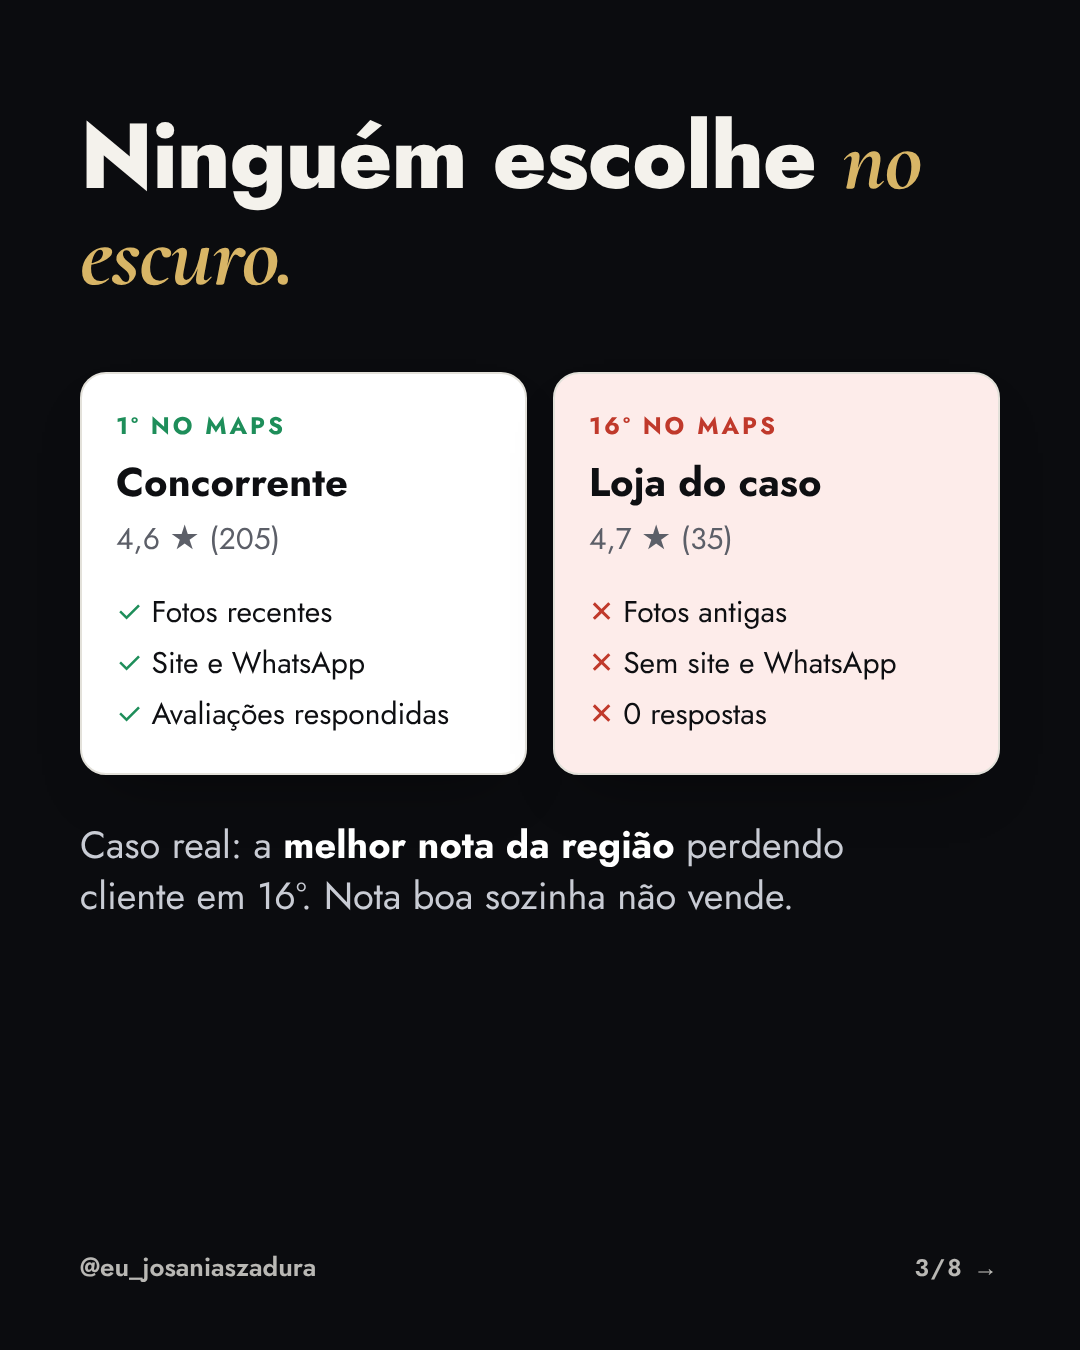
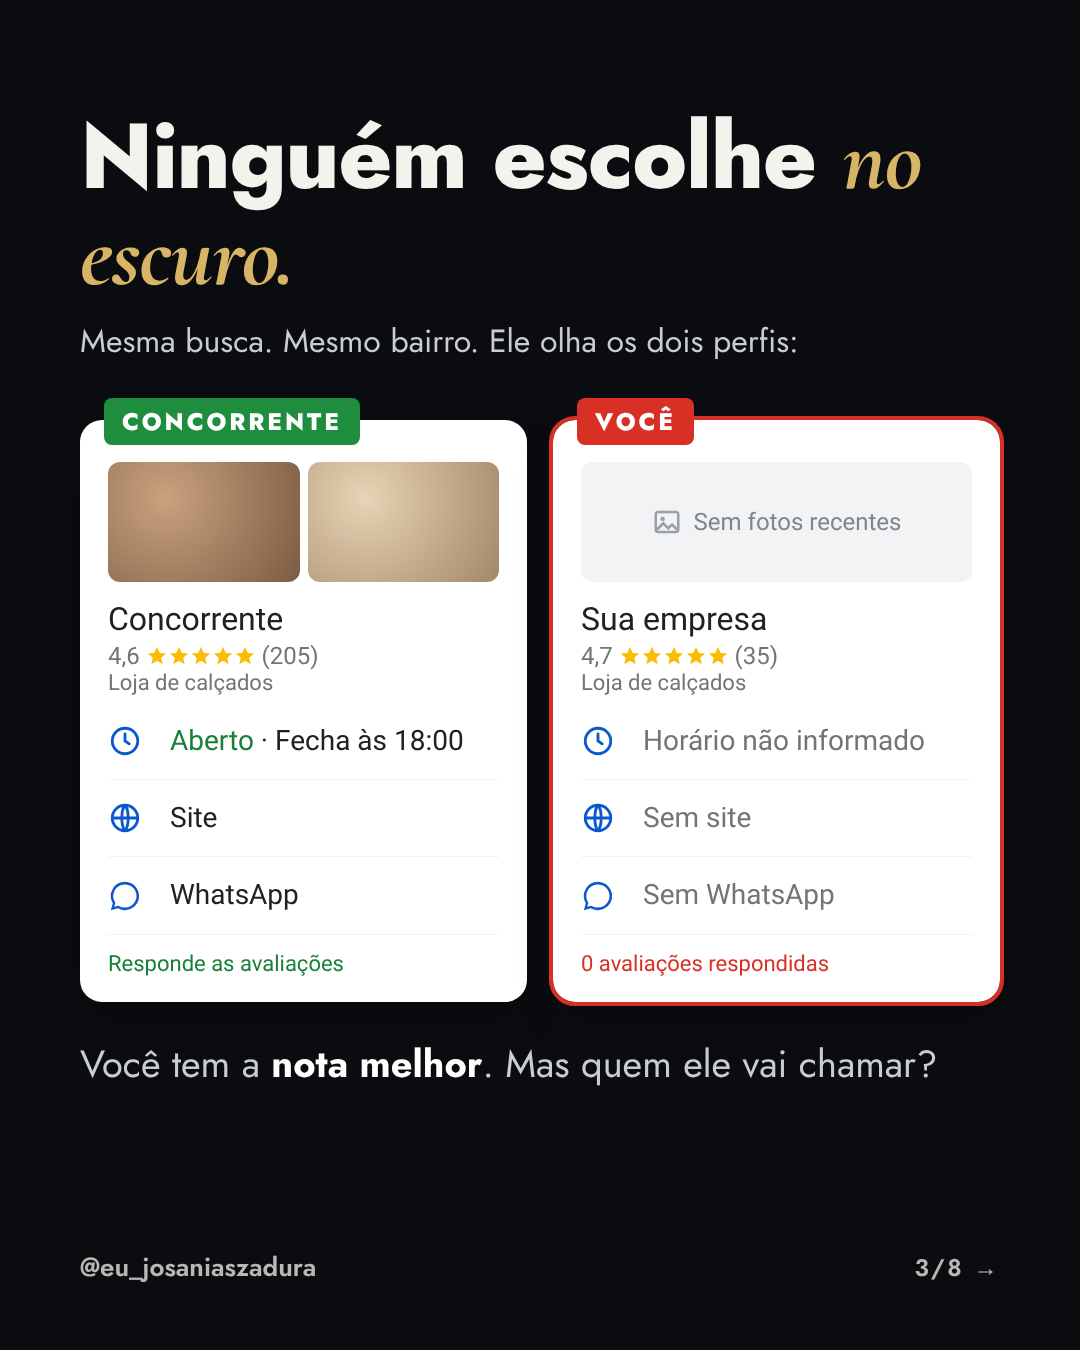
Carrossel RAIO-X: prints realistas do Google (fictícios) e card Você x Concorrente
Claude-Session: https://claude.ai/code/session_01GSPDeNJt9dBjJ4huVqgAZy

Changed region(s): [[0.0611, 0.2489, 0.9472, 0.7467], [0.0611, 0.7778, 0.8556, 0.8089]]

diff --git a/anuncios/carrossel-raiox/fonte/gui.py b/anuncios/carrossel-raiox/fonte/gui.py
@@ -1,0 +1,71 @@
+# Componentes com aparência de Google/Maps (dados fictícios)
+import random
+FONT='Roboto,Arial,sans-serif'
+TEAL='#0B57D0'
+def stars(n=5,size=26,color='#FBBC04',empty='#DADCE0',val=None):
+    out=''
+    for i in range(5):
+        fill=color if (val is None or i<round(val)) else empty
+        out+=f'<svg width="{size}" height="{size}" viewBox="0 0 24 24" style="vertical-align:-3px"><path fill="{fill}" d="M12 17.3l6.2 3.7-1.6-7 5.4-4.7-7.1-.6L12 2 9.1 8.7 2 9.3l5.4 4.7-1.6 7z"/></svg>'
+    return out
+def icon(name,color='#5F6368',size=34):
+    p={'pin':'<path fill="none" stroke="C" stroke-width="2" d="M12 21s-7-6.5-7-11.5A7 7 0 0 1 19 9.5C19 14.5 12 21 12 21z"/><circle cx="12" cy="9.5" r="2.5" fill="none" stroke="C" stroke-width="2"/>',
+       'clock':'<circle cx="12" cy="12" r="9" fill="none" stroke="C" stroke-width="2"/><path d="M12 7v5l3 2" fill="none" stroke="C" stroke-width="2" stroke-linecap="round"/>',
+       'globe':'<circle cx="12" cy="12" r="9" fill="none" stroke="C" stroke-width="2"/><path d="M3 12h18M12 3c3 3.5 3 14.5 0 18M12 3c-3 3.5-3 14.5 0 18" fill="none" stroke="C" stroke-width="2"/>',
+       'phone':'<path fill="none" stroke="C" stroke-width="2" d="M5 4h4l2 5-2.5 1.5a11 11 0 0 0 5 5L15 13l5 2v4a2 2 0 0 1-2 2A16 16 0 0 1 3 6a2 2 0 0 1 2-2"/>',
+       'dir':'<path fill="C" d="M21.7 11.3l-9-9a1 1 0 0 0-1.4 0l-9 9a1 1 0 0 0 0 1.4l9 9a1 1 0 0 0 1.4 0l9-9a1 1 0 0 0 0-1.4zM14 14.5V12h-4v3H8v-4a1 1 0 0 1 1-1h5V7.5l3.5 3.5z"/>',
+       'save':'<path fill="none" stroke="C" stroke-width="2" d="M6 3h12v18l-6-4-6 4z"/>',
+       'near':'<circle cx="12" cy="12" r="3" fill="none" stroke="C" stroke-width="2"/><circle cx="12" cy="12" r="8" fill="none" stroke="C" stroke-width="2"/>',
+       'share':'<circle cx="18" cy="5" r="2.5" fill="none" stroke="C" stroke-width="2"/><circle cx="6" cy="12" r="2.5" fill="none" stroke="C" stroke-width="2"/><circle cx="18" cy="19" r="2.5" fill="none" stroke="C" stroke-width="2"/><path d="M8.2 10.8l7.6-4.6M8.2 13.2l7.6 4.6" stroke="C" stroke-width="2"/>',
+       'wa':'<path fill="C" d="M12 2a10 10 0 0 0-8.6 15.1L2 22l5-1.3A10 10 0 1 0 12 2zm0 18.2c-1.5 0-3-.4-4.3-1.2l-.3-.2-3 .8.8-2.9-.2-.3A8.2 8.2 0 1 1 12 20.2z"/>',
+       'search':'<circle cx="10.5" cy="10.5" r="6.5" fill="none" stroke="C" stroke-width="2.2"/><path d="M15.5 15.5L21 21" stroke="C" stroke-width="2.2" stroke-linecap="round"/>',
+       'x':'<path d="M6 6l12 12M18 6L6 18" stroke="C" stroke-width="2" stroke-linecap="round"/>',
+       'mic':'<rect x="9" y="3" width="6" height="11" rx="3" fill="C"/><path d="M5 11a7 7 0 0 0 14 0M12 18v3" fill="none" stroke="C" stroke-width="2"/>',
+       'cam':'<rect x="3" y="7" width="18" height="13" rx="3" fill="none" stroke="C" stroke-width="2"/><circle cx="12" cy="13.5" r="3.5" fill="none" stroke="C" stroke-width="2"/><path d="M8 7l1.5-3h5L16 7" fill="none" stroke="C" stroke-width="2"/>',
+       'photo':'<rect x="3" y="4" width="18" height="16" rx="2" fill="none" stroke="C" stroke-width="2"/><circle cx="8.5" cy="9.5" r="1.8" fill="C"/><path d="M4 18l5-5 4 4 3-3 4 4" fill="none" stroke="C" stroke-width="2"/>'}[name].replace('C',color)
+    return f'<svg width="{size}" height="{size}" viewBox="0 0 24 24" style="flex:none">{p}</svg>'
+def searchbar(q,w=920):
+    return f'''<div style="width:{w}px;background:#fff;border-radius:999px;box-shadow:0 2px 10px rgba(32,33,36,.28);display:flex;align-items:center;gap:22px;padding:22px 32px;font-family:{FONT}">
+<span style="font-family:Arial,sans-serif;font-size:36px;font-weight:500;color:#5F6368;letter-spacing:-.5px">Google</span>
+<span style="flex:1;font-size:30px;color:#202124">{q}</span>{icon('x','#70757A',30)}<span style="width:2px;height:34px;background:#DADCE0"></span>{icon('mic','#4285F4',32)}{icon('cam','#5F6368',32)}</div>'''
+def gpin(x,y,label='',color='#EA4335',big=False):
+    s=1.5 if big else 1
+    return f'''<g transform="translate({x},{y}) scale({s})"><path d="M0 0c-9-11-14-17-14-24a14 14 0 0 1 28 0c0 7-5 13-14 24z" fill="{color}" stroke="#fff" stroke-width="1.5"/><circle cy="-24" r="5" fill="#fff" opacity=".9"/></g>'''+(f'<text x="{x+ (24 if big else 18)}" y="{y-22}" font-family="Roboto,Arial" font-size="{24 if big else 19}" font-weight="{700 if big else 500}" fill="{color}" stroke="#fff" stroke-width="5" paint-order="stroke">{label}</text>' if label else '')
+def mapsvg(w,h,pins,seed=7):
+    rnd=random.Random(seed)
+    g=[f'<rect width="{w}" height="{h}" fill="#F3F1EC"/>']
+    # parque e rio
+    g.append(f'<path d="M{w*.05} {h*.62} q{w*.12} -{h*.1} {w*.24} -{h*.02} t{w*.2} {h*.05} l0 {h*.16} q-{w*.18} {h*.06} -{w*.44} -{h*.02}z" fill="#C8E6C9"/>')
+    g.append(f'<path d="M-10 {h*.86} C {w*.25} {h*.70}, {w*.45} {h*.98}, {w*.7} {h*.8} S {w*1.0} {h*.66}, {w+10} {h*.72}" fill="none" stroke="#9FCBF5" stroke-width="34"/>')
+    # quarteirões / ruas
+    for i in range(-2,14):
+        x=i*w/11+rnd.uniform(-10,10)
+        g.append(f'<line x1="{x}" y1="-10" x2="{x+w*.08}" y2="{h+10}" stroke="#fff" stroke-width="{rnd.choice([7,7,9])}"/>')
+    for j in range(-1,10):
+        y=j*h/8+rnd.uniform(-8,8)
+        g.append(f'<line x1="-10" y1="{y}" x2="{w+10}" y2="{y-h*.06}" stroke="#fff" stroke-width="{rnd.choice([7,7,9])}"/>')
+    g.append(f'<line x1="-10" y1="{h*.3}" x2="{w+10}" y2="{h*.22}" stroke="#FFE7A3" stroke-width="16"/><line x1="-10" y1="{h*.3}" x2="{w+10}" y2="{h*.22}" stroke="#F4D27A" stroke-width="2" opacity=".6"/>')
+    g.append(f'<line x1="{w*.62}" y1="-10" x2="{w*.7}" y2="{h+10}" stroke="#FFE7A3" stroke-width="14"/>')
+    for (tx,ty,t) in [(w*.08,h*.27,'Av. Brasil'),(w*.66,h*.55,'R. das Palmeiras'),(w*.3,h*.12,'R. Tiradentes'),(w*.12,h*.7,'Parque Municipal')]:
+        g.append(f'<text x="{tx}" y="{ty}" font-family="Roboto,Arial" font-size="17" fill="#7A7A7A">{t}</text>')
+    for p in pins: g.append(gpin(*p))
+    return f'<svg width="{w}" height="{h}" viewBox="0 0 {w} {h}" style="display:block">{"".join(g)}</svg>'
+def photos(n=4,w=200,h=130,empty=False):
+    if empty:
+        return f'<div style="display:flex;align-items:center;justify-content:center;gap:12px;height:{h}px;background:#F1F3F4;border-radius:12px;color:#80868B;font-size:24px;font-family:{FONT}">{icon("photo","#9AA0A6",30)}Sem fotos recentes</div>'
+    pal=[('#C9A27E','#7B5B43'),('#E7D3B5','#A4876A'),('#B7C9D3','#5D7887'),('#D9B9A4','#8C6450')]
+    t=''.join(f'<div style="flex:1;height:{h}px;border-radius:12px;background:radial-gradient(circle at 30% 30%,{a},{b})"></div>' for a,b in pal[:n])
+    return f'<div style="display:flex;gap:8px">{t}</div>'
+def actions(size=72):
+    items=[('dir','Rotas',True),('save','Salvar',False),('near','Próximo',False),('share','Compartilhar',False)]
+    out=''
+    for ic,lab,main in items:
+        bg=TEAL if main else '#D3E3FD'
+        col='#fff' if main else TEAL
+        out+=f'<div style="display:flex;flex-direction:column;align-items:center;gap:10px;font-size:22px;color:{TEAL};font-weight:500"><div style="width:{size}px;height:{size}px;border-radius:50%;background:{bg};display:grid;place-items:center">{icon(ic,col,34)}</div>{lab}</div>'
+    return f'<div style="display:flex;justify-content:space-between;padding:22px 6px">{out}</div>'
+def tabs(active=0):
+    t=['Visão geral','Avaliações','Sobre']
+    return '<div style="display:flex;gap:56px;border-bottom:2px solid #E8EAED;font-size:26px;font-weight:500">'+''.join(f'<div style="padding:16px 4px;color:{TEAL if i==active else "#5F6368"};border-bottom:{"4px solid "+TEAL if i==active else "4px solid transparent"};margin-bottom:-2px">{x}</div>' for i,x in enumerate(t))+'</div>'
+def inforow(ic,txt,sub='',color='#202124'):
+    return f'<div style="display:flex;gap:28px;align-items:center;padding:20px 0;border-bottom:1px solid #F1F3F4">{icon(ic,TEAL,34)}<div style="font-size:28px;color:{color};line-height:1.3">{txt}{("<div style=&quot;font-size:22px;color:#70757A&quot;>"+sub+"</div>") if sub else ""}</div></div>'.replace('&quot;','"')

diff --git a/anuncios/carrossel-raiox/fonte/cards_reais.py b/anuncios/carrossel-raiox/fonte/cards_reais.py
@@ -1,0 +1,74 @@
+from gui import *
+CARD='background:#fff;border-radius:22px;box-shadow:0 18px 50px -18px rgba(0,0,0,.45);font-family:Roboto,Arial,sans-serif;color:#202124'
+def S2(foot):
+    pins=[(150,210,'Concorrente A'),(420,120,'Concorrente B'),(700,250,'Concorrente C'),(300,380,''),(560,430,''),(820,140,''),(200,520,'')]
+    return f'''<div class="c light">
+<h1>Neste minuto, alguém digitou <span class="u">o que você vende.</span></h1>
+<div style="margin-top:56px;position:relative">
+<div style="border-radius:22px;overflow:hidden;box-shadow:0 18px 50px -18px rgba(0,0,0,.45)">{mapsvg(920,600,pins)}</div>
+<div style="position:absolute;left:0;right:0;top:-36px">{searchbar("seu serviço perto de mim",920)}</div>
+</div>
+<p class="cap">O Google abriu o mapa com as opções. <b>A sua empresa estava lá?</b></p>
+{foot(2)}</div>'''
+def mini(nome,nota,qtd,good):
+    tag=('CONCORRENTE','#1E8E3E') if good else ('VOCÊ','#D93025')
+    rows=(inforow('clock','<span style="color:#188038">Aberto</span> · Fecha às 18:00')+inforow('globe','Site')+inforow('wa','WhatsApp')) if good else \
+         (inforow('clock','<span style="color:#70757A">Horário não informado</span>')+inforow('globe','<span style="color:#70757A">Sem site</span>')+inforow('wa','<span style="color:#70757A">Sem WhatsApp</span>'))
+    return f'''<div style="{CARD};padding:28px 28px 10px;position:relative;{'' if good else 'outline:4px solid #D93025;'}">
+<div style="position:absolute;top:-22px;left:24px;background:{tag[1]};color:#fff;font-family:Jost;font-weight:800;font-size:24px;letter-spacing:.12em;padding:6px 18px;border-radius:8px">{tag[0]}</div>
+<div style="margin-top:14px">{photos(2,0,120,empty=not good)}</div>
+<div style="font-size:32px;margin-top:18px">{nome}</div>
+<div style="font-size:24px;color:#70757A;margin-top:4px">{nota} {stars(size=22,val=float(nota.replace(",",".")))} ({qtd})</div>
+<div style="font-size:22px;color:#70757A">Loja de calçados</div>
+<div style="margin-top:8px">{rows}</div>
+<div style="font-size:22px;padding:16px 0;color:{'#188038' if good else '#D93025'}">{'Responde as avaliações' if good else '0 avaliações respondidas'}</div>
+</div>'''
+def S3(foot):
+    return f'''<div class="c night">
+<h1>Ninguém escolhe <span class="it">no escuro.</span></h1>
+<p style="font-size:32px;color:#C9CCD4;margin-top:16px">Mesma busca. Mesmo bairro. Ele olha os dois perfis:</p>
+<div style="display:grid;grid-template-columns:1fr 1fr;gap:26px;margin-top:56px">{mini("Concorrente","4,6","205",True)}{mini("Sua empresa","4,7","35",False)}</div>
+<p class="cap" style="color:#C9CCD4;margin-top:36px">Você tem a <b style="color:#fff">nota melhor</b>. Mas quem ele vai chamar?</p>
+{foot(3)}</div>'''
+def S4(foot):
+    return f'''<div class="c light">
+<h1>O Google não adivinha. <span class="it">Ele lê o seu perfil.</span></h1>
+<div style="{CARD};margin-top:56px;padding:34px 40px 10px">
+<div style="font-size:44px">Sua Empresa</div>
+<div style="font-size:28px;color:#70757A;margin-top:8px">4,8 {stars(size=26)} (120)</div>
+<div style="display:inline-block;font-size:28px;color:#70757A;margin-top:6px;border-bottom:6px solid #D8B566;padding-bottom:2px">Categoria do seu negócio · $$</div>
+<div style="margin-top:20px">{tabs(0)}</div>
+{actions()}
+<div style="font-size:24px;color:#70757A;padding:6px 0 4px">Serviços</div>
+<div style="display:flex;flex-wrap:wrap;gap:12px;padding:8px 0 24px">{''.join(f'<span style="font-size:24px;border:1px solid #DADCE0;border-radius:10px;padding:8px 18px">{s}</span>' for s in ['Serviço principal','Serviço 2','Serviço 3','Orçamento'])}</div>
+</div>
+<div style="position:absolute;right:70px;top:582px;font-family:'Cormorant Garamond';font-style:italic;font-weight:700;font-size:44px;color:#A87C1E;transform:rotate(-4deg)">← categoria certa</div>
+<p class="cap">Categoria errada ou serviço faltando? O Google <b>entrega o seu cliente pro concorrente.</b></p>
+{foot(4)}</div>'''
+def S5(foot):
+    return f'''<div class="c gold">
+<h1>Cliente pronto pra comprar <span class="it">não espera.</span></h1>
+<div style="{CARD};margin-top:56px;padding:14px 40px">
+{inforow('pin','Av. Brasil, 1234 · Centro','Sua cidade - UF')}
+{inforow('clock','<span style="color:#188038">Aberto</span> · Fecha às 18:00','Horário atualizado')}
+{inforow('phone','(00) 00000-0000')}
+{inforow('wa','Conversar no WhatsApp')}
+<div style="display:flex;gap:28px;align-items:center;padding:20px 0">{icon('globe',TEAL,34)}<span style="font-size:28px">suaempresa.com.br</span></div>
+</div>
+<p class="cap">Horário errado ou sem WhatsApp? <b>Ele liga pro vizinho.</b></p>
+{foot(5)}</div>'''
+def S6(foot):
+    bars=''.join(f'<div style="display:flex;align-items:center;gap:14px;font-size:20px;color:#70757A">{n}<div style="width:330px;height:12px;border-radius:8px;background:#E8EAED;overflow:hidden"><div style="width:{w}%;height:100%;background:#FBBC04"></div></div></div>' for n,w in [(5,88),(4,8),(3,2),(2,1),(1,1)])
+    return f'''<div class="c light">
+<h1>Perfil parado <span class="it">parece empresa fechada.</span></h1>
+<div style="{CARD};margin-top:56px;padding:34px 40px">
+<div style="display:flex;gap:40px;align-items:center"><div style="display:grid;gap:6px">{bars}</div>
+<div style="text-align:center"><div style="font-size:84px;line-height:1">4,9</div><div>{stars(size=26)}</div><div style="font-size:22px;color:#70757A;margin-top:6px">128 avaliações</div></div></div>
+<div style="border-top:1px solid #E8EAED;margin-top:26px;padding-top:24px;display:flex;gap:18px">
+<div style="width:56px;height:56px;border-radius:50%;background:#7E57C2;color:#fff;display:grid;place-items:center;font-size:28px;flex:none">A</div>
+<div><div style="font-size:26px;font-weight:500">Ana Paula</div><div style="font-size:20px;color:#70757A">{stars(size=18)} · há 2 dias</div>
+<div style="font-size:24px;margin-top:8px">Atendimento excelente, fui muito bem recebida!</div>
+<div style="background:#F1F3F4;border-radius:12px;padding:14px 18px;margin-top:14px;font-size:22px"><b style="font-weight:500">Resposta do proprietário</b> · há 1 dia<br>Obrigada pela visita, Ana! Ficamos felizes em te atender aqui no bairro.</div></div></div>
+</div>
+<p class="cap">Foto de 2 anos atrás e avaliação sem resposta afastam cliente. <b>Do jeito certo:</b> movimento real, nada comprado.</p>
+{foot(6)}</div>'''

diff --git a/anuncios/carrossel-raiox/fonte/gen.py b/anuncios/carrossel-raiox/fonte/gen.py
@@ -4,7 +4,7 @@ logo=open(f"{LP}/logo.b64").read().strip()
 foto=open(f"{LP}/foto_hero.b64").read().strip()
 laudo=open(f"{LP}/laudo-01.b64").read().strip()
 HANDLE="@eu_josaniaszadura"
-CSS='''<link href="https://fonts.googleapis.com/css2?family=Cormorant+Garamond:ital,wght@1,700&family=Jost:wght@400;500;600;700;800&display=swap" rel="stylesheet">
+CSS='''<link href="https://fonts.googleapis.com/css2?family=Cormorant+Garamond:ital,wght@1,700&family=Jost:wght@400;500;600;700;800&family=Roboto:wght@400;500;700&display=swap" rel="stylesheet">
 <style>
 *{box-sizing:border-box;margin:0;padding:0}
 html,body{width:1080px;height:1350px;overflow:hidden}
@@ -107,5 +107,8 @@ S[8]=f'''<div class="c gold">
 <img src="{logo}" style="position:absolute;right:80px;bottom:56px;height:70px;background:#fff;border-radius:14px;padding:10px 18px">
 <div class="foot" style="right:auto"><span>{HANDLE}</span></div>
 </div>'''
+import sys as _s; _s.path.insert(0,D)
+from cards_reais import S2,S3,S4,S5,S6
+S[2],S[3],S[4],S[5],S[6]=S2(foot),S3(foot),S4(foot),S5(foot),S6(foot)
 for n,v in S.items():
     open(f"{D}/card{n}.html","w",encoding="utf-8").write("<!doctype html><html lang=pt-BR><head><meta charset=utf-8>"+CSS+"</head><body>"+v+"</body></html>")
